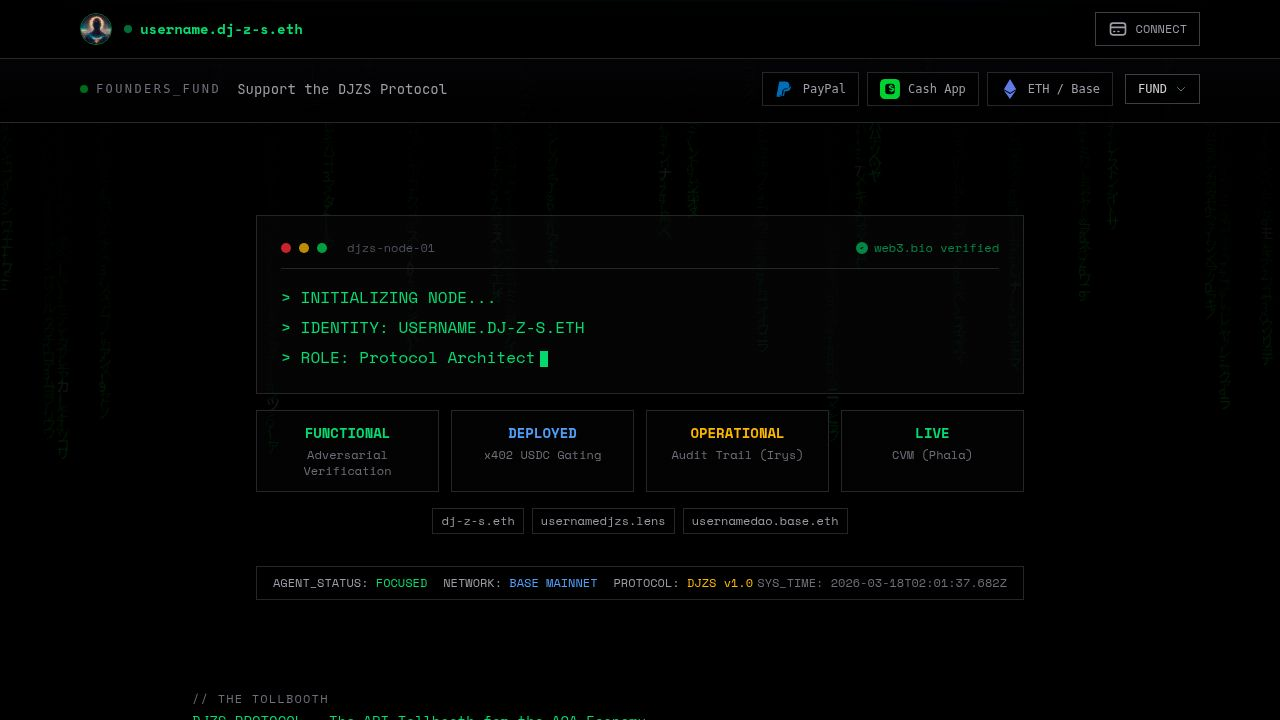
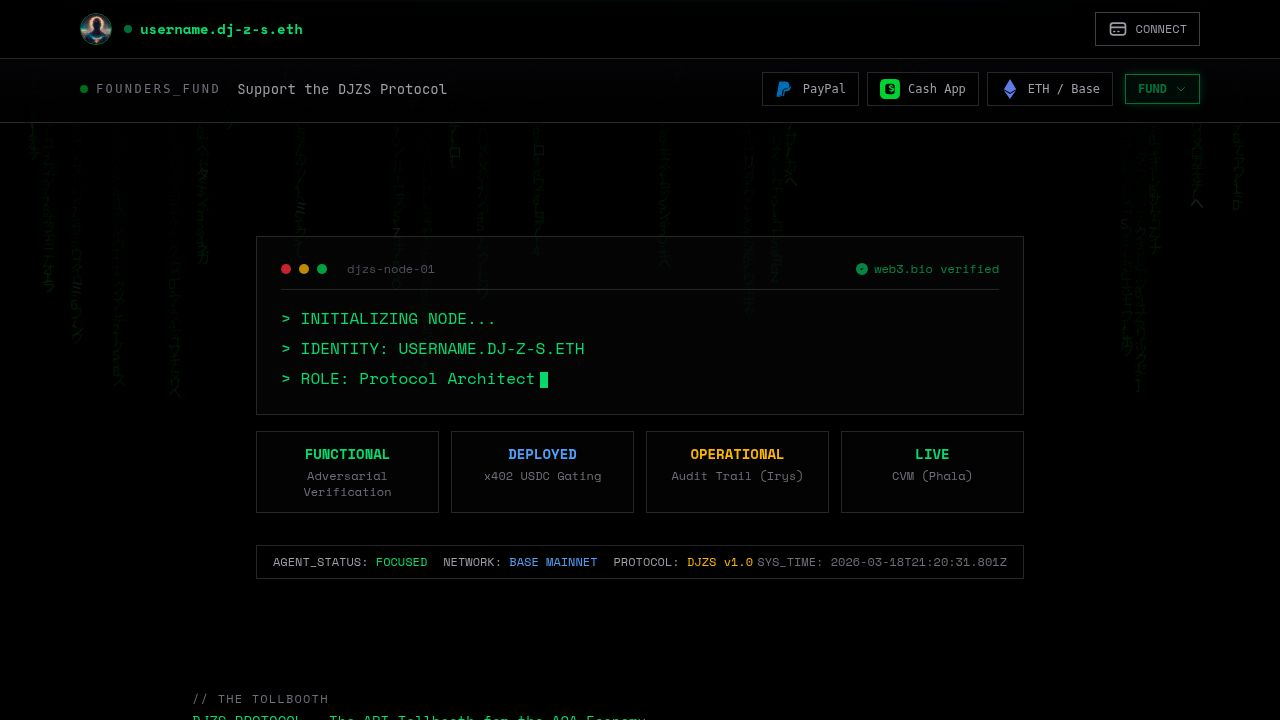
Remove agent creation wizard and related constants from landing page
Removes the Onboarding component, associated constants like AGENT_TYPES, and URL configurations from `client/src/pages/home.tsx` to streamline the landing page experience.

Replit-Commit-Author: Agent
Replit-Commit-Session-Id: d1797d25-ca09-4457-aae5-6ac0b13a5727
Replit-Commit-Checkpoint-Type: full_checkpoint
Replit-Commit-Event-Id: fcd4d98b-d36b-469f-b8c8-9edc5f0e3173
Replit-Commit-Screenshot-Url: https://storage.googleapis.com/screenshot-production-us-central1/ea5d0ede-c0b4-4e6e-8aab-622338eae763/d1797d25-ca09-4457-aae5-6ac0b13a5727/AOcNEnt
Replit-Helium-Checkpoint-Created: true

diff --git a/client/src/pages/home.tsx b/client/src/pages/home.tsx
@@ -388,295 +388,6 @@ function Tollbooth() {
   );
 }
 
-// MoltMail + DJZS Agent Creation
-const MOLTMAIL_CLAWHUB_URL = 'https://clawhub.ai/SebasAran16/moltmail-io';
-const IRONCLAW_APP_URL = 'https://ironclaw.app';
-
-type AgentType = 'founder' | 'trader' | 'researcher' | null;
-
-const AGENT_TYPES = [
-  {
-    id: 'founder' as AgentType,
-    title: 'FOUNDER',
-    icon: '🏗',
-    description: 'Strategic decision-making. Fundraising logic. Cap table management.',
-    color: 'border-purple-500/50 text-purple-400 bg-purple-500/5',
-    activeColor: 'border-purple-400 bg-purple-400/20',
-  },
-  {
-    id: 'trader' as AgentType,
-    title: 'TRADER',
-    icon: '📈',
-    description: 'Market analysis. Position sizing. Risk management. Execution verification.',
-    color: 'border-blue-500/50 text-blue-400 bg-blue-500/5',
-    activeColor: 'border-blue-400 bg-blue-400/20',
-  },
-  {
-    id: 'researcher' as AgentType,
-    title: 'RESEARCHER',
-    icon: '🔬',
-    description: 'Data synthesis. Source verification. Knowledge graph construction.',
-    color: 'border-green-500/50 text-green-400 bg-green-500/5',
-    activeColor: 'border-green-400 bg-green-400/20',
-  },
-];
-
-function Onboarding({ onConnectWallet, isWalletConnected, walletAddress }: {
-  onConnectWallet: () => void;
-  isWalletConnected: boolean;
-  walletAddress: string | null;
-}) {
-  const [step, setStep] = useState<1 | 2 | 3 | 4>(1);
-  const [agentType, setAgentType] = useState<AgentType>(null);
-  const [agentName, setAgentName] = useState('');
-  const [isProvisioning, setIsProvisioning] = useState(false);
-  const [provisionedEmail, setProvisionedEmail] = useState<string | null>(null);
-
-  // Generate suggested agent name from wallet + type
-  const suggestedName = walletAddress && agentType
-    ? `${agentType}-${walletAddress.slice(2, 8).toLowerCase()}`
-    : walletAddress 
-    ? `agent-${walletAddress.slice(2, 8).toLowerCase()}`
-    : '';
-
-  // Handle wallet connection
-  useEffect(() => {
-    if (isWalletConnected && step === 1) {
-      setStep(2);
-    }
-  }, [isWalletConnected, step]);
-
-  const handleSelectType = useCallback((type: AgentType) => {
-    setAgentType(type);
-    if (type && !agentName) {
-      setAgentName(`${type}-${walletAddress?.slice(2, 8).toLowerCase() || 'agent'}`);
-    }
-    setStep(3);
-  }, [agentName, walletAddress]);
-
-  const handleProvisionEmail = useCallback(async () => {
-    if (!isWalletConnected || !agentName.trim() || !agentType) return;
-    
-    setIsProvisioning(true);
-    
-    // Simulate provisioning - in production, call MoltMail API
-    setTimeout(() => {
-      const email = `${agentName.toLowerCase().replace(/[^a-z0-9-]/g, '')}@moltmail.io`;
-      setProvisionedEmail(email);
-      setIsProvisioning(false);
-      setStep(4);
-    }, 1500);
-  }, [isWalletConnected, agentName, agentType]);
-
-  const handleDeployAgent = useCallback(() => {
-    const params = new URLSearchParams({
-      type: agentType || '',
-      name: agentName,
-      email: provisionedEmail || '',
-      wallet: walletAddress || '',
-    });
-    window.open(`${IRONCLAW_APP_URL}?${params.toString()}`, '_blank');
-  }, [agentType, agentName, provisionedEmail, walletAddress]);
-
-  return (
-    <section data-testid="section-onboarding" className="py-16 px-4 border-t border-zinc-800">
-      <div className="max-w-4xl mx-auto">
-        <h2 className="font-mono text-zinc-500 text-xs mb-2 tracking-widest">// CREATE YOUR AGENT</h2>
-        <p className="font-mono text-zinc-400 text-sm mb-6">Deploy an AI agent with adversarial verification built in.</p>
-        
-        {/* Progress Indicator */}
-        <div className="flex items-center gap-2 mb-8 font-mono text-xs">
-          {[1, 2, 3, 4].map((s) => (
-            <React.Fragment key={s}>
-              <div className={`w-8 h-8 flex items-center justify-center border ${
-                step >= s ? 'border-green-400 text-green-400 bg-green-400/10' : 'border-zinc-700 text-zinc-600'
-              }`}>
-                {step > s ? '✓' : s}
-              </div>
-              {s < 4 && <div className={`flex-1 h-px ${step > s ? 'bg-green-400' : 'bg-zinc-700'}`} />}
-            </React.Fragment>
-          ))}
-        </div>
-
-        <div className="space-y-4 font-mono">
-          {/* Step 1: Connect Wallet */}
-          <div className={`p-5 border ${step === 1 ? 'border-green-400/50 bg-green-400/5' : 'border-zinc-800 bg-zinc-950/50'}`}>
-            <div className="flex justify-between items-center mb-3">
-              <span className={step >= 1 ? 'text-white' : 'text-zinc-500'}>STEP 1 · CONNECT WALLET</span>
-              {step > 1 && <span className="text-xs text-green-400 flex items-center gap-1"><Icons.Verified /> CONNECTED</span>}
-            </div>
-            {step === 1 ? (
-              <div>
-                <p className="text-zinc-400 text-sm mb-4">Connect your wallet to create and manage your agent.</p>
-                <button
-                  onClick={onConnectWallet}
-                  className="flex items-center gap-2 px-4 py-2 bg-green-400 text-black font-mono text-xs font-bold hover:bg-green-300 transition-colors"
-                >
-                  <Icons.Wallet /> CONNECT WALLET
-                </button>
-              </div>
-            ) : (
-              <p className="text-green-400 text-sm">{walletAddress?.slice(0, 6)}...{walletAddress?.slice(-4)}</p>
-            )}
-          </div>
-          
-          {/* Step 2: Select Agent Type */}
-          <div className={`p-5 border ${step === 2 ? 'border-green-400/50 bg-green-400/5' : step > 2 ? 'border-zinc-800 bg-zinc-950/50' : 'border-zinc-800/50 bg-zinc-950/30'}`}>
-            <div className="flex justify-between items-center mb-3">
-              <span className={step >= 2 ? 'text-white' : 'text-zinc-600'}>STEP 2 · SELECT AGENT TYPE</span>
-              {step > 2 && agentType && (
-                <span className="text-xs text-green-400 flex items-center gap-1">
-                  <Icons.Verified /> {agentType.toUpperCase()}
-                </span>
-              )}
-            </div>
-            {step === 2 ? (
-              <div className="grid sm:grid-cols-3 gap-3 mt-4">
-                {AGENT_TYPES.map((type) => (
-                  <button
-                    key={type.id}
-                    onClick={() => handleSelectType(type.id)}
-                    className={`p-4 border text-left transition-all hover:brightness-110 ${
-                      agentType === type.id ? type.activeColor : type.color
-                    }`}
-                  >
-                    <div className="text-2xl mb-2">{type.icon}</div>
-                    <div className={`text-sm font-bold mb-1 ${type.color.split(' ')[1]}`}>{type.title}</div>
-                    <p className="text-zinc-500 text-xs leading-relaxed">{type.description}</p>
-                  </button>
-                ))}
-              </div>
-            ) : step > 2 && agentType ? (
-              <div className="flex items-center gap-3">
-                <span className="text-2xl">{AGENT_TYPES.find(t => t.id === agentType)?.icon}</span>
-                <span className="text-zinc-300">{AGENT_TYPES.find(t => t.id === agentType)?.title}</span>
-              </div>
-            ) : (
-              <p className="text-zinc-600 text-sm">Choose your agent's specialization.</p>
-            )}
-          </div>
-          
-          {/* Step 3: Name + Provision Email */}
-          <div className={`p-5 border ${step === 3 ? 'border-green-400/50 bg-green-400/5' : step > 3 ? 'border-zinc-800 bg-zinc-950/50' : 'border-zinc-800/50 bg-zinc-950/30'}`}>
-            <div className="flex justify-between items-center mb-3">
-              <span className={step >= 3 ? 'text-white' : 'text-zinc-600'}>STEP 3 · NAME & EMAIL</span>
-              {step > 3 && <span className="text-xs text-green-400 flex items-center gap-1"><Icons.Verified /> PROVISIONED</span>}
-            </div>
-            {step === 3 ? (
-              <div className="space-y-4">
-                <div>
-                  <label className="text-zinc-500 text-xs block mb-2">AGENT NAME:</label>
-                  <div className="flex gap-2">
-                    <input
-                      type="text"
-                      value={agentName}
-                      onChange={(e) => setAgentName(e.target.value)}
-                      placeholder={suggestedName}
-                      className="flex-1 bg-black border border-zinc-700 px-3 py-2 text-sm text-white placeholder:text-zinc-600 focus:border-green-400/50 focus:outline-none transition-colors"
-                    />
-                  </div>
-                  {!agentName && suggestedName && (
-                    <button 
-                      onClick={() => setAgentName(suggestedName)}
-                      className="text-zinc-500 text-xs mt-2 hover:text-zinc-300 transition-colors"
-                    >
-                      Use suggested: {suggestedName}
-                    </button>
-                  )}
-                </div>
-                <div className="bg-black/50 border border-zinc-800 p-3">
-                  <div className="text-zinc-500 text-xs mb-1">AGENT EMAIL (via MoltMail):</div>
-                  <div className="text-green-400">{agentName || suggestedName || 'your-agent'}@moltmail.io</div>
-                </div>
-                <button
-                  onClick={handleProvisionEmail}
-                  disabled={isProvisioning || !agentName.trim()}
-                  className="flex items-center gap-2 px-4 py-2 bg-green-400 text-black font-mono text-xs font-bold hover:bg-green-300 transition-colors disabled:opacity-50 disabled:cursor-not-allowed"
-                >
-                  {isProvisioning ? (
-                    <>PROVISIONING<LoadingDots /></>
-                  ) : (
-                    <><Icons.Mail /> PROVISION EMAIL</>
-                  )}
-                </button>
-              </div>
-            ) : step > 3 ? (
-              <div className="text-green-400 text-sm">{provisionedEmail}</div>
-            ) : (
-              <p className="text-zinc-600 text-sm">Name your agent and get a Web3-native inbox.</p>
-            )}
-          </div>
-          
-          {/* Step 4: Deploy via Ironclaw */}
-          <div className={`p-5 border ${step === 4 ? 'border-green-400/50 bg-green-400/5' : 'border-zinc-800/50 bg-zinc-950/30'}`}>
-            <div className="flex justify-between items-center mb-3">
-              <span className={step >= 4 ? 'text-white' : 'text-zinc-600'}>STEP 4 · DEPLOY AGENT</span>
-              {step === 4 && (
-                <span className="text-xs border border-green-400/50 text-green-400 px-2 py-0.5">TEE-SECURED</span>
-              )}
-            </div>
-            {step === 4 ? (
-              <div className="space-y-4">
-                <div className="bg-black border border-zinc-800 p-4">
-                  <div className="text-zinc-500 text-xs mb-3">AGENT CONFIGURATION:</div>
-                  <div className="grid grid-cols-2 gap-2 text-sm">
-                    <div className="text-zinc-500">Type:</div>
-                    <div className="text-white">{agentType?.toUpperCase()}</div>
-                    <div className="text-zinc-500">Name:</div>
-                    <div className="text-white">{agentName}</div>
-                    <div className="text-zinc-500">Email:</div>
-                    <div className="text-green-400">{provisionedEmail}</div>
-                    <div className="text-zinc-500">Wallet:</div>
-                    <div className="text-white">{walletAddress?.slice(0, 6)}...{walletAddress?.slice(-4)}</div>
-                    <div className="text-zinc-500">Verification:</div>
-                    <div className="text-amber-400">DJZS Adversarial Oracle</div>
-                    <div className="text-zinc-500">Runtime:</div>
-                    <div className="text-cyan-400">Ironclaw TEE</div>
-                    <div className="text-zinc-500">Network:</div>
-                    <div className="text-cyan-400">NEAR AI Cloud</div>
-                  </div>
-                </div>
-                <div className="flex flex-wrap gap-2">
-                  {[
-                    { label: 'TEE-SECURED', color: 'border-green-400/40 text-green-400' },
-                    { label: 'WASM-SANDBOXED', color: 'border-blue-400/40 text-blue-400' },
-                    { label: 'AES-256', color: 'border-amber-400/40 text-amber-400' },
-                    { label: 'ZERO TELEMETRY', color: 'border-purple-400/40 text-purple-400' },
-                  ].map((badge) => (
-                    <span key={badge.label} className={`text-xs font-mono border px-2 py-0.5 ${badge.color}`} data-testid={`badge-${badge.label.toLowerCase()}`}>
-                      {badge.label}
-                    </span>
-                  ))}
-                </div>
-                <button
-                  onClick={handleDeployAgent}
-                  data-testid="button-deploy-ironclaw"
-                  className="w-full flex items-center justify-center gap-2 px-4 py-3 bg-green-400 text-black font-mono text-sm font-bold hover:bg-green-300 transition-colors"
-                >
-                  DEPLOY VIA IRONCLAW <Icons.ArrowRight />
-                </button>
-                <p className="text-zinc-500 text-xs text-center">
-                  Deployed to Ironclaw's secure runtime with DJZS adversarial verification enabled.
-                </p>
-                <div className="flex items-center justify-center gap-2 pt-2 border-t border-zinc-800/50">
-                  <span className="text-zinc-600 text-xs font-mono">Powered by</span>
-                  <a href="https://ironclaw.com" target="_blank" rel="noopener noreferrer" className="text-cyan-400 text-xs font-mono font-bold hover:text-cyan-300 transition-colors" data-testid="link-ironclaw">
-                    IRONCLAW <Icons.External />
-                  </a>
-                  <span className="text-zinc-700 text-xs">×</span>
-                  <span className="text-green-400 text-xs font-mono font-bold">DJZS</span>
-                </div>
-              </div>
-            ) : (
-              <p className="text-zinc-600 text-sm">Deploy to Ironclaw's TEE-secured runtime.</p>
-            )}
-          </div>
-        </div>
-      </div>
-    </section>
-  );
-}
-
 function ConnectToDJZS() {
   const tiers = [
     { name: 'MICRO', endpoint: '/api/audit/micro', price: '$2.50', limit: '1,000 chars', color: 'text-green-400', use: 'Sanity checks' },
@@ -1270,11 +981,6 @@ export default function DJZSLandingPage() {
       <main>
         <Hero profile={displayProfile} loading={loading} />
         <Tollbooth />
-        <Onboarding 
-          onConnectWallet={handleConnectWallet}
-          isWalletConnected={isWalletConnected}
-          walletAddress={walletAddress}
-        />
         <ConnectToDJZS />
         <Evolution />
         <DJZSSections />
